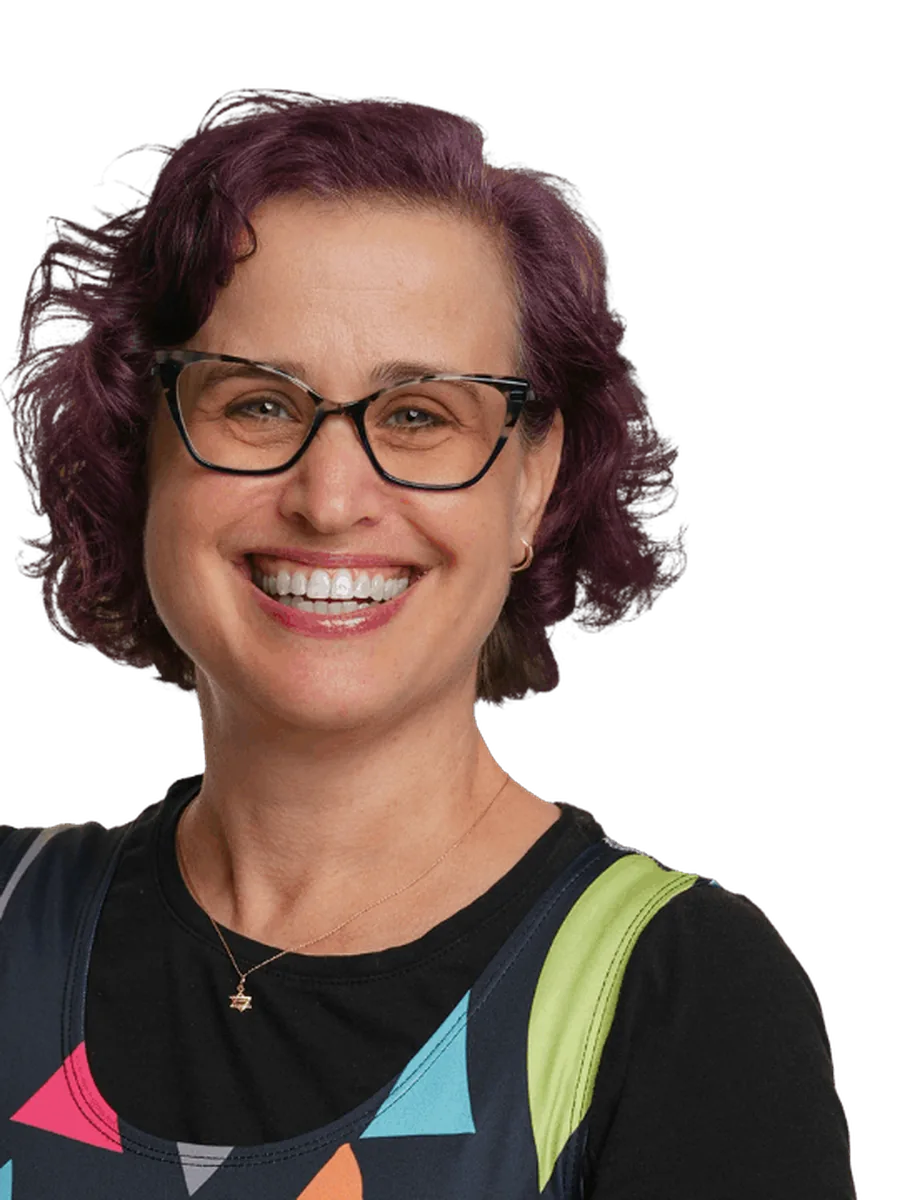
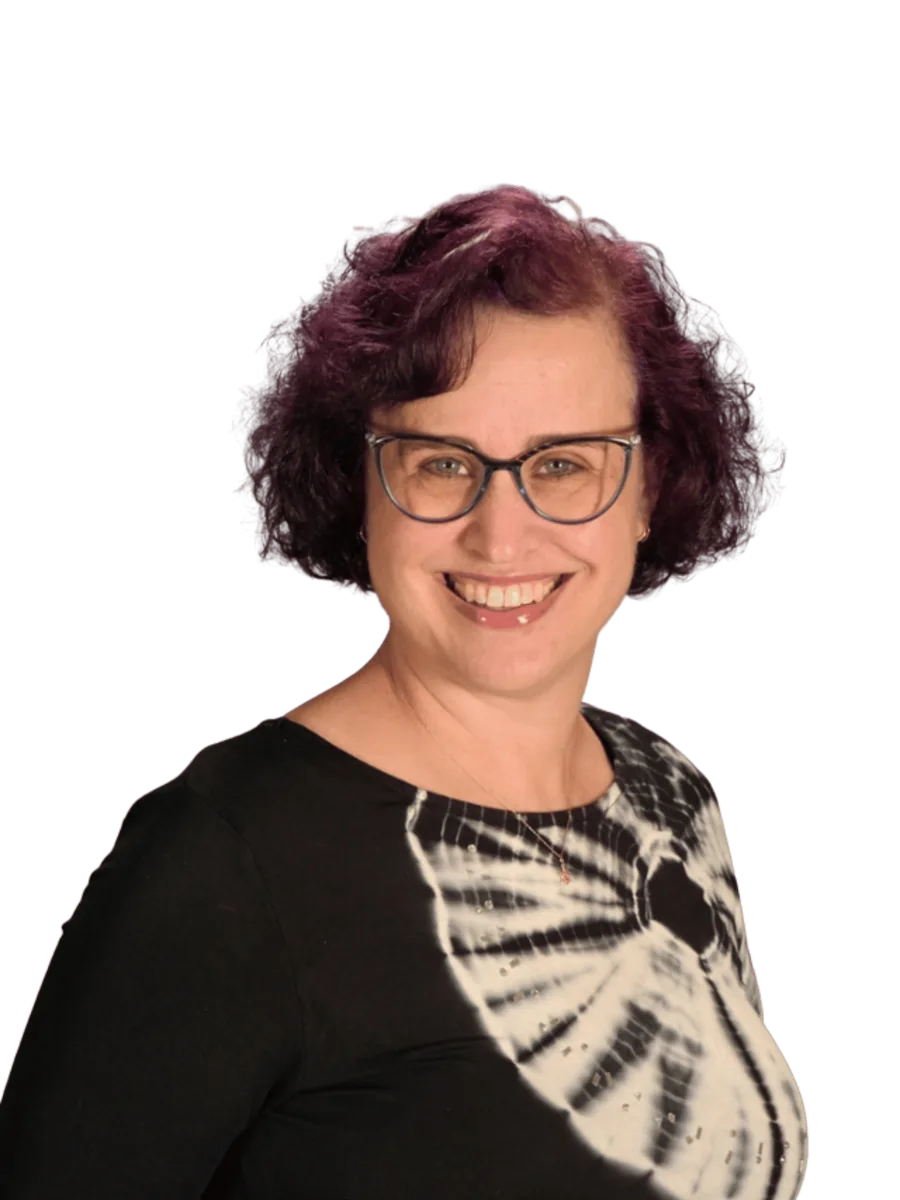
#10032 Add Tamara and Ryan staff photos and soften photo backgrounds
Replace Tamara Reid's portrait with the new client photo at the
existing /images/updates/Tamara-Reid.webp path, and add a portrait
for Ryan Slusky. Both are 900x1200 3:4 WebP, optimized the same way
as the other studio portraits. A migration updates only Ryan
Slusky's photo path by exact name. On /staff, the photo container
background is darkened one step from slate-100 to slate-200 so
cut-out edges sit on a slightly softer tone. Images themselves are
unchanged for the background request.

diff --git a/resources/js/Pages/Marketing/Staff.vue b/resources/js/Pages/Marketing/Staff.vue
@@ -51,7 +51,7 @@ defineProps({
                         class="bg-white rounded-xl shadow-md overflow-hidden border border-slate-100 hover:shadow-lg transition-shadow duration-300"
                     >
                         <!-- Photo -->
-                        <div class="aspect-[3/4] bg-slate-100 flex items-center justify-center overflow-hidden">
+                        <div class="aspect-[3/4] bg-slate-200 flex items-center justify-center overflow-hidden">
                             <img
                                 v-if="member.photo"
                                 :src="member.photo"

diff --git a/database/migrations/2026_11_24_180000_update_ryan_slusky_staff_photo_for_10032.php b/database/migrations/2026_11_24_180000_update_ryan_slusky_staff_photo_for_10032.php
@@ -1,0 +1,34 @@
+<?php
+
+use Illuminate\Database\Migrations\Migration;
+use Illuminate\Support\Facades\DB;
+
+return new class extends Migration
+{
+    /**
+     * Point the existing Ryan Slusky staff_directory row at the portrait
+     * added in public/images/updates/ for request #10032.
+     *
+     * Updates the photo path only, and only for an exact name match.
+     * Does not insert rows or change names, titles, departments, or sort order.
+     * Safe to re-run: the same path is written again.
+     */
+    public function up(): void
+    {
+        DB::table('staff_directory')->where('name', 'Ryan Slusky')->update([
+            'photo' => '/images/updates/Ryan-Slusky.webp',
+            'updated_at' => now(),
+        ]);
+    }
+
+    /**
+     * Restore the live 2026-11-24 path (no photo) for Ryan Slusky.
+     */
+    public function down(): void
+    {
+        DB::table('staff_directory')->where('name', 'Ryan Slusky')->update([
+            'photo' => null,
+            'updated_at' => now(),
+        ]);
+    }
+};
